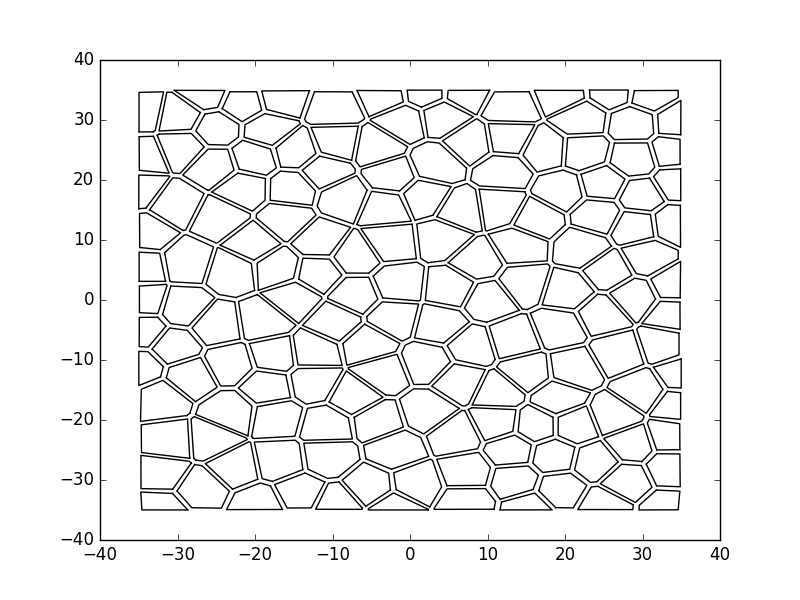
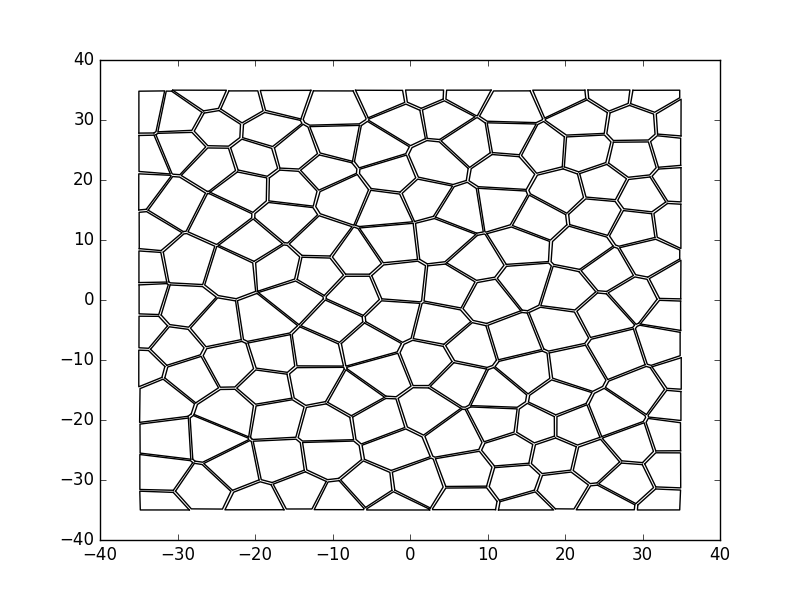
make space=0.2

Changed region(s): [[0.1562, 0.15, 0.875, 0.87]]

diff --git a/voronoi.py b/voronoi.py
@@ -7,7 +7,7 @@ from functools import cmp_to_key
 
 
 class BoundVoronoi:
-    def __init__(self, bound=(-35, 35, -35, 35), space=0.4):
+    def __init__(self, bound=(-35, 35, -35, 35), space=0.2):
         self._bounds = np.array(bound)
         self._space = space
 
